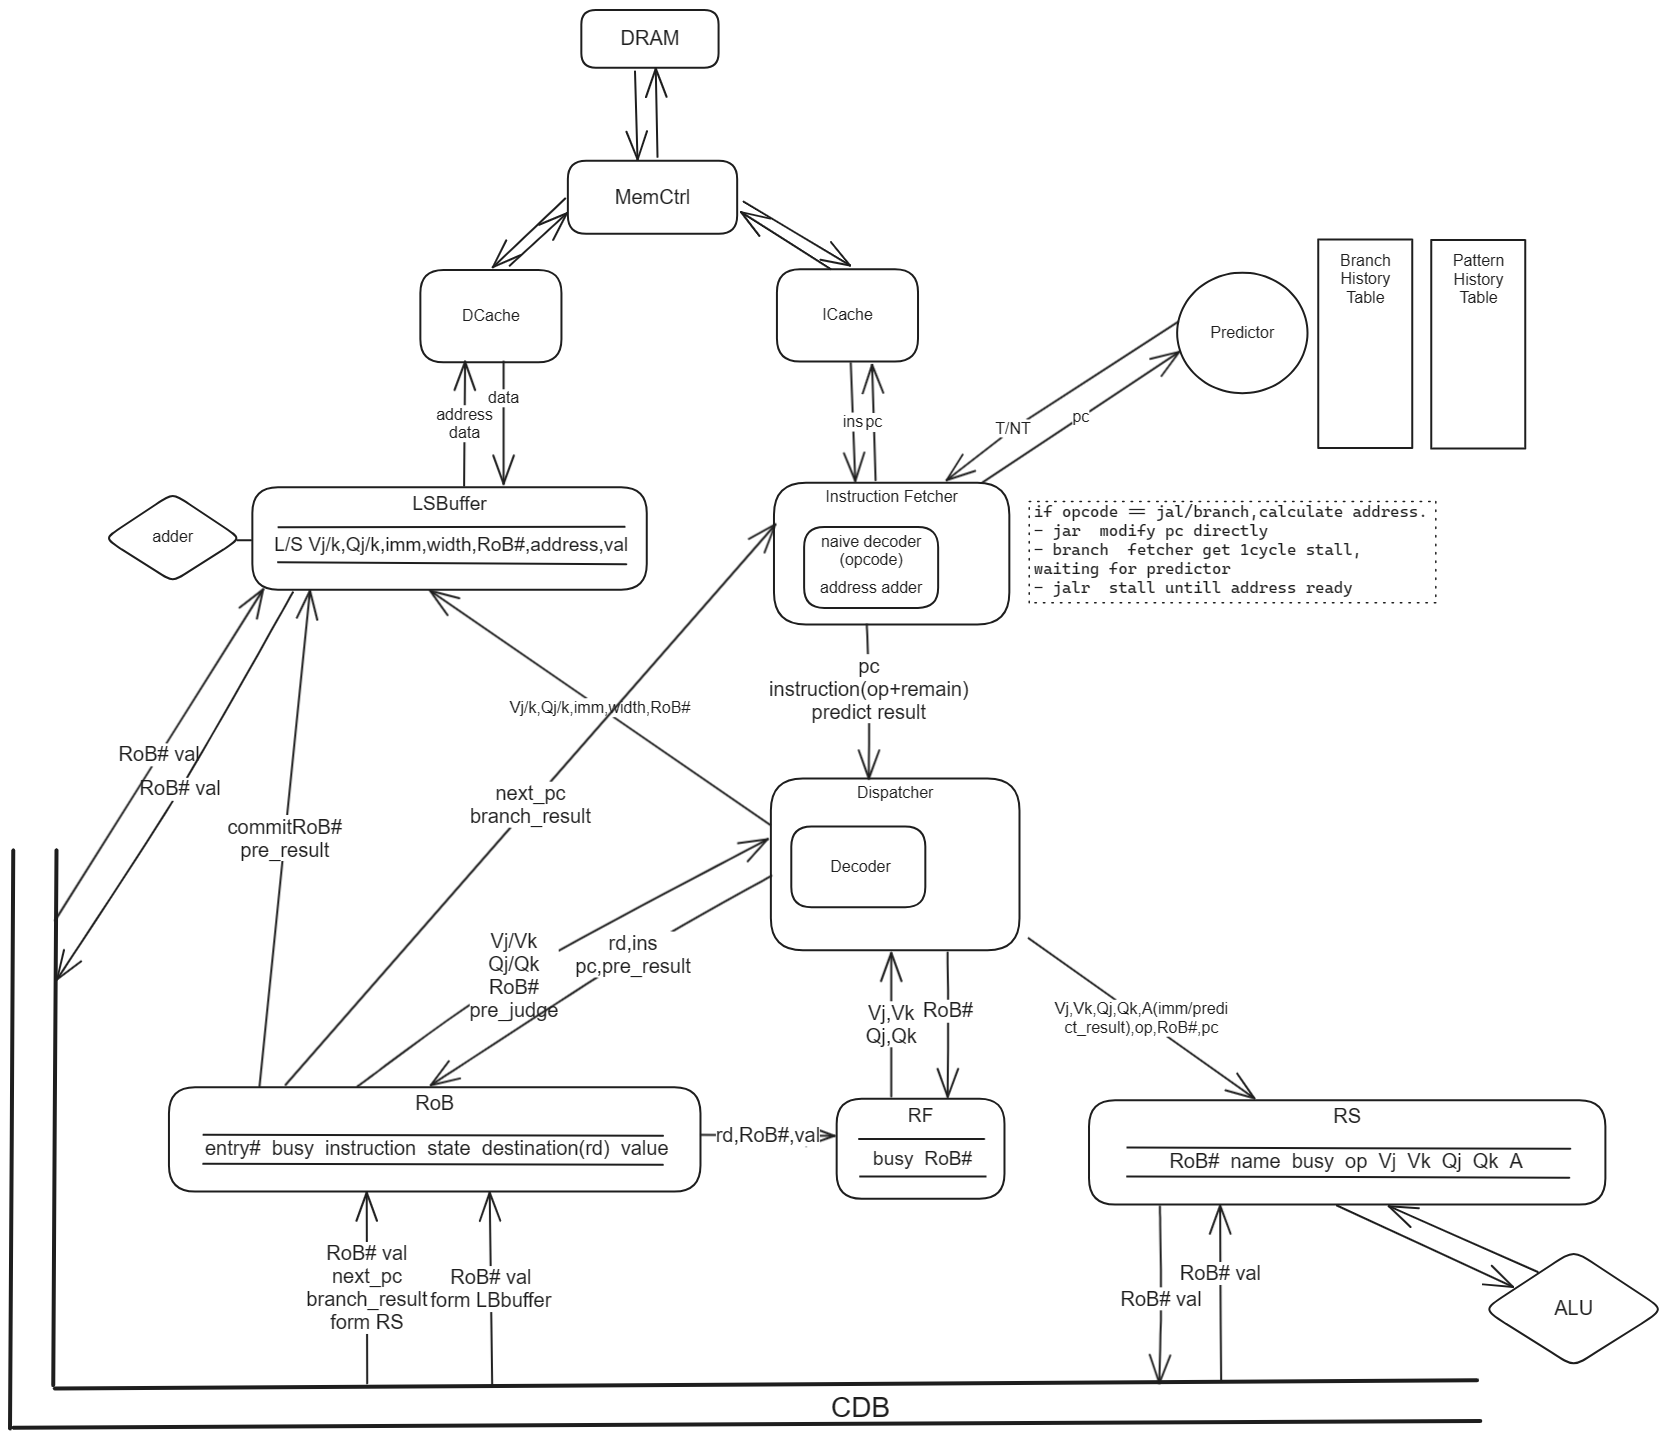
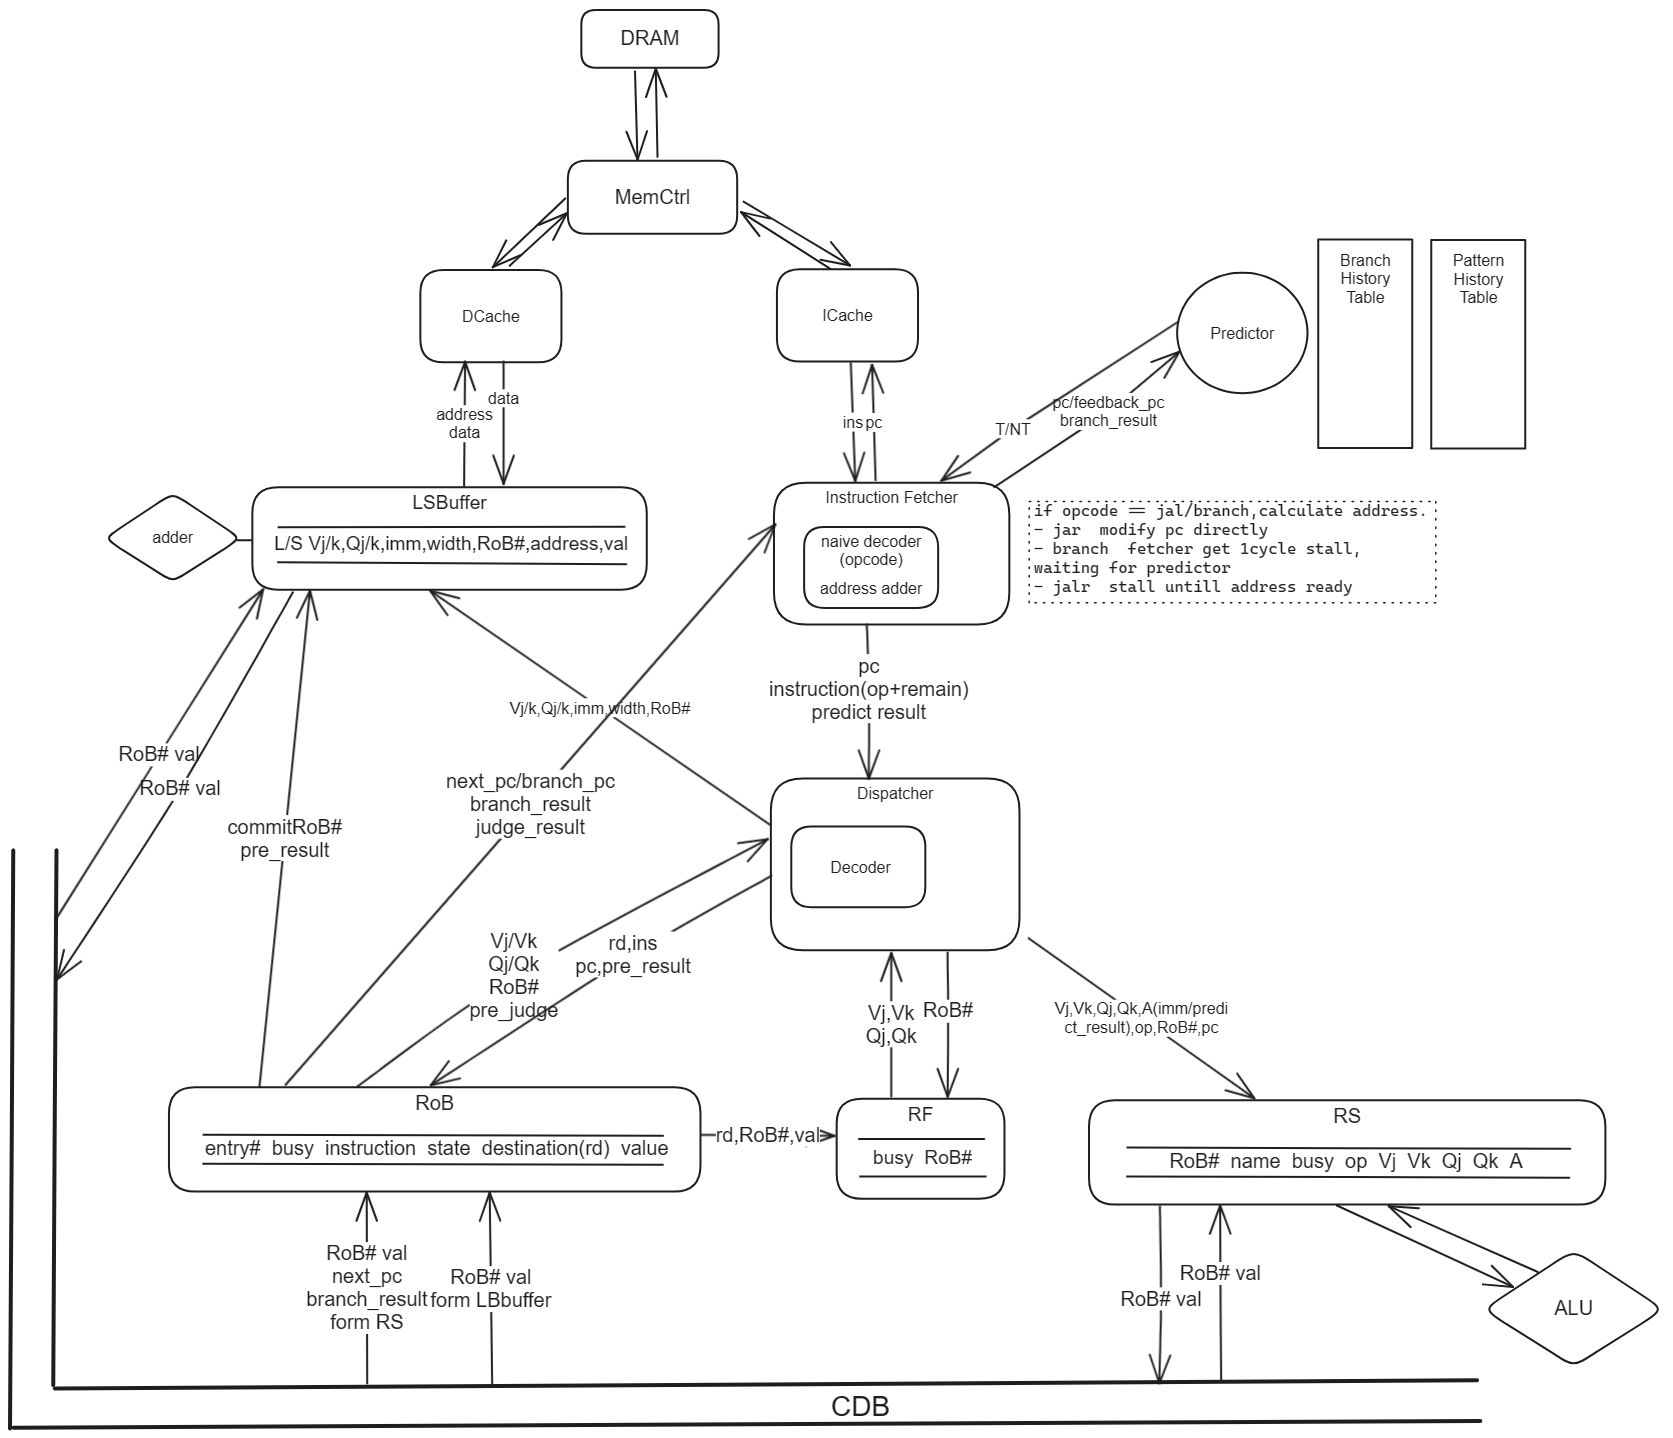
feat(predictor):a predictor based on local history.connected to ROB.

diff --git a/README.md b/README.md
@@ -12,4 +12,12 @@
 # <img src="README.assets/RV32I.png" width="500" align=center /> 
 
 ### 框架草图
-# <img src="README.assets/cpu框架.png" width="500" align=center /> 
+# <img src="README.assets/cpu框架.png" width="1000" align=center /> 
+
+### 模块设计
+
+#### Instruction cache
+
+采用 **Direct-mapped** 设计。
+# <img src="README.assets/address.png" width="300" align=center /> 
+index = block address % block numbers，用于在确定 cache 中的块位置；tag 用于比对，确定是否命中。
